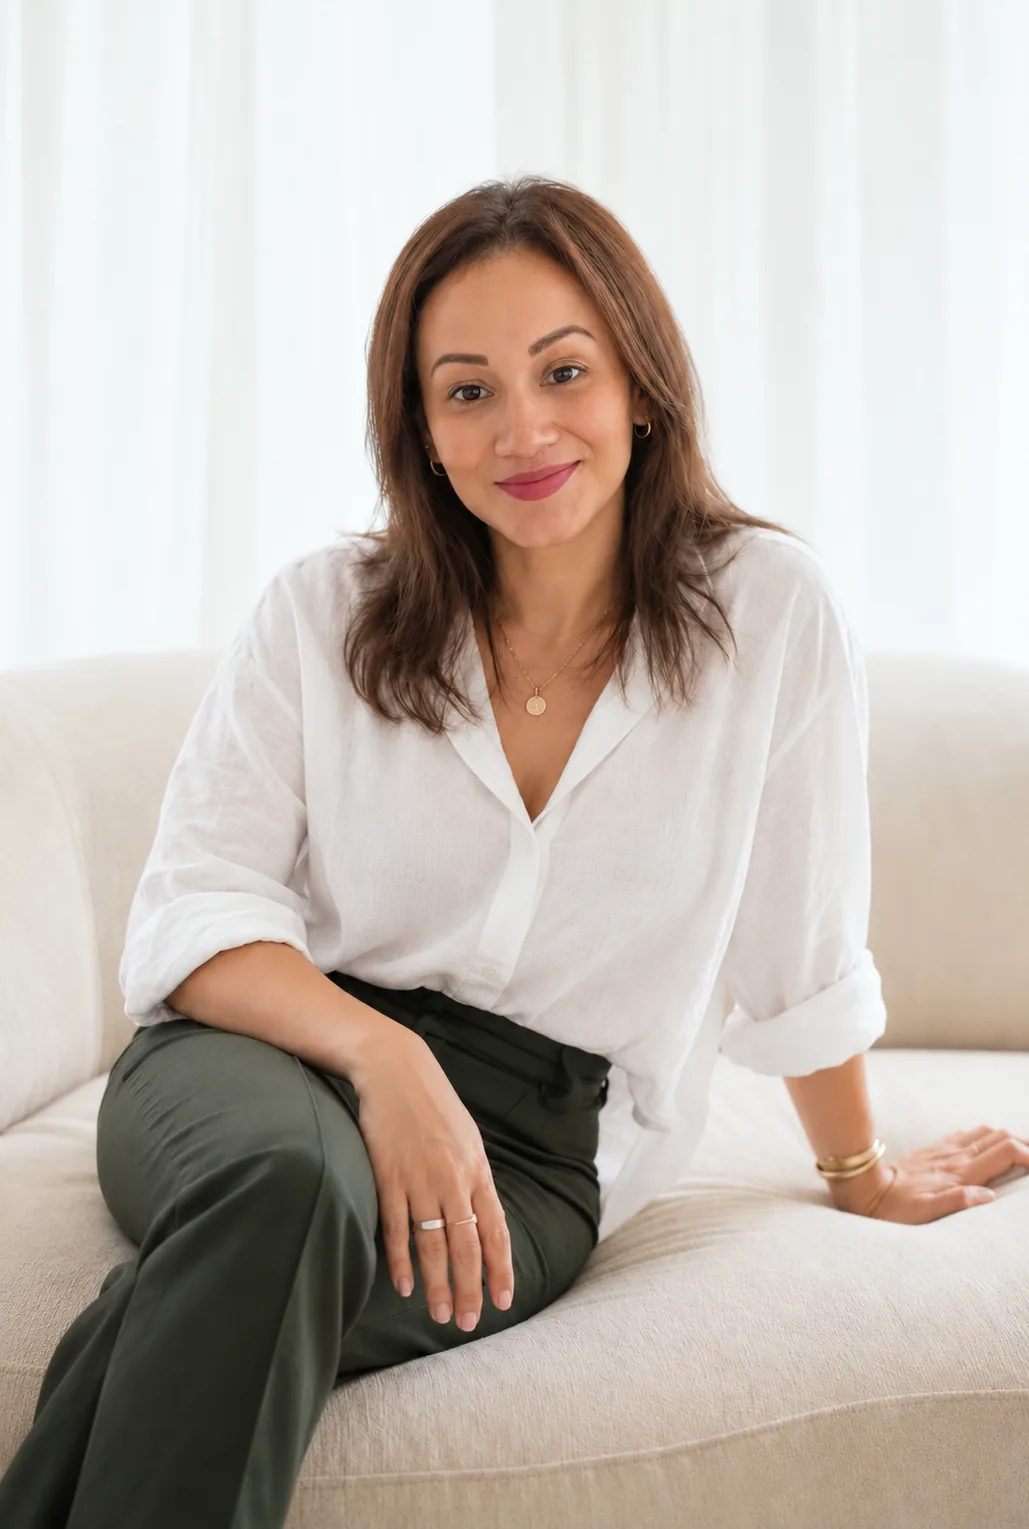
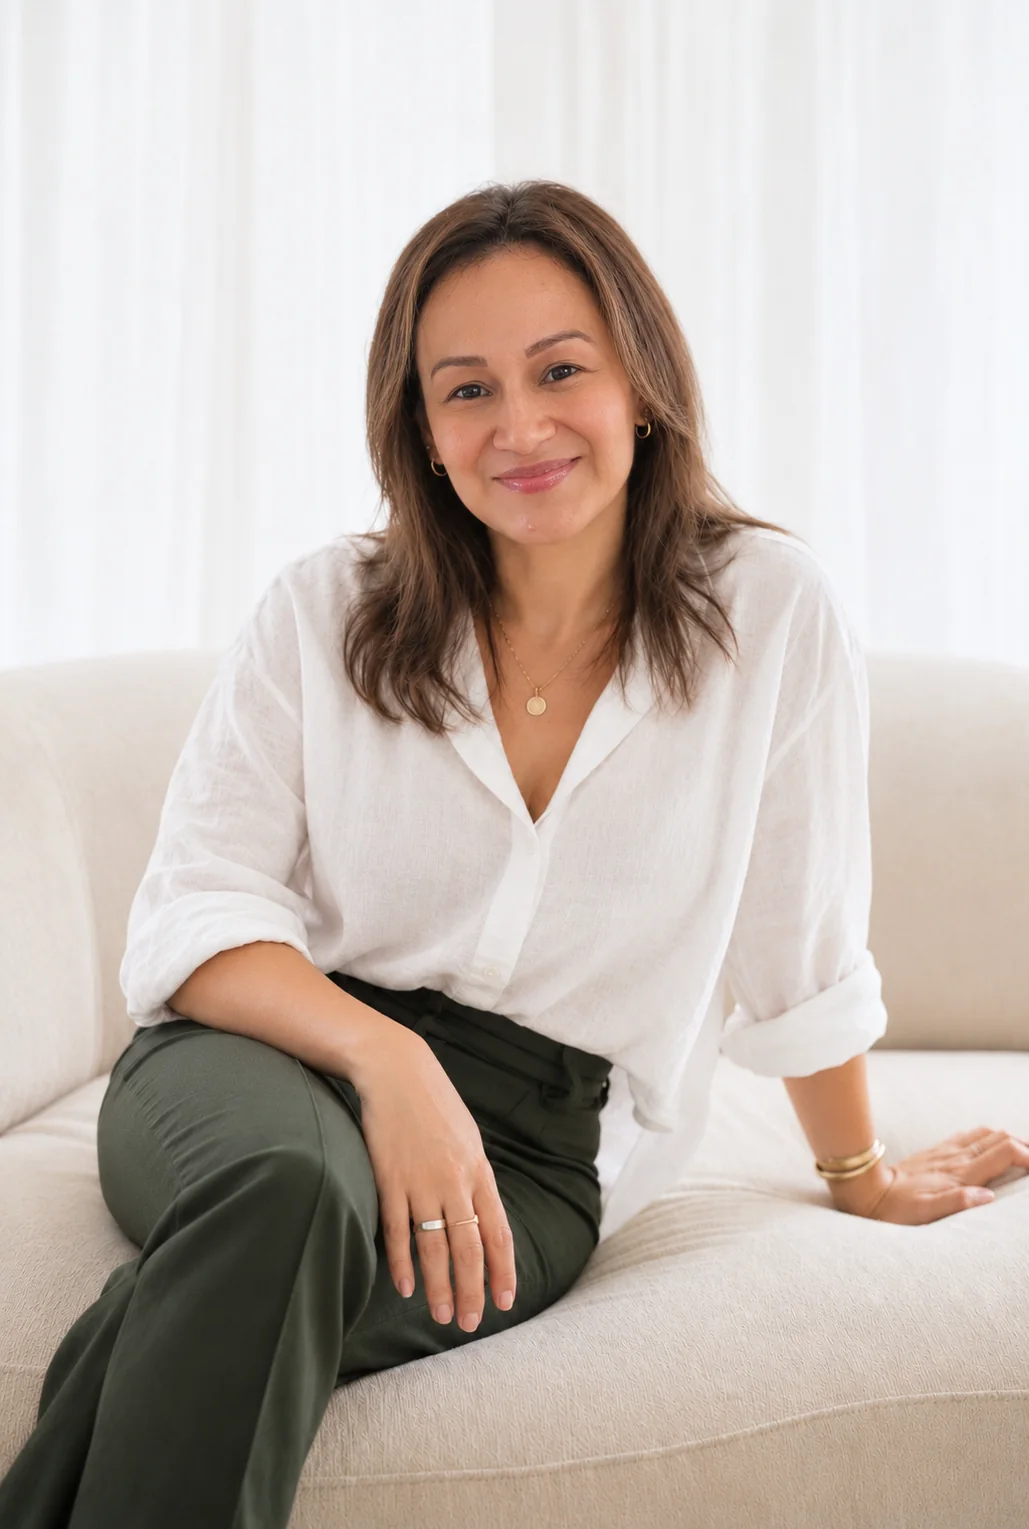
Nueva foto de Fransury en Quién te acompaña (portada y /quien-soy)

diff --git a/src/pages/PortalHome.tsx b/src/pages/PortalHome.tsx
@@ -188,9 +188,9 @@ const Companion = () => {
   return (
     <section ref={ref} aria-labelledby="acompana-titulo" className="grid md:grid-cols-2 bg-background">
       <div className="relative h-[110vw] max-h-[640px] md:h-auto md:max-h-none md:min-h-[100svh] overflow-hidden">
-        <motion.img src={fransuryAcompana} alt="Fransury González, psicóloga y maestra de Kundalini Yoga, sonriendo sentada en un sofá claro" loading="lazy"
+        <motion.img src={fransuryAcompana} alt="Fransury González, psicóloga y maestra de Kundalini Yoga, sentada en un sofá" loading="lazy"
           style={reduce ? { scale: 1.08 } : { y: photoY, scale: 1.08 }}
-          className="absolute inset-0 w-full h-full object-cover object-[50%_12%] [filter:grayscale(1)_contrast(0.96)_brightness(1.04)]" />
+          className="absolute inset-0 w-full h-full object-cover object-[50%_20%] [filter:grayscale(1)_contrast(0.96)_brightness(1.04)]" />
       </div>
       <motion.div {...inView} variants={{ show: { transition: { staggerChildren: 0.15 } } }}
         className="flex items-center px-6 py-24 md:px-16 lg:px-24 md:py-32">

diff --git a/src/pages/QuienSoy.tsx b/src/pages/QuienSoy.tsx
@@ -89,7 +89,7 @@ const QuienSoy = () => {
         <section className="md:px-6 md:pt-12 pb-14">
           <div className="max-w-6xl mx-auto grid md:grid-cols-[0.85fr_1.15fr] gap-8 md:gap-14 items-start">
             <div className="md:sticky md:top-28">
-              <RevealImage src={HERO_IMAGE} alt="Fransury González, psicóloga y maestra de Kundalini Yoga, sonriendo sentada en un sofá claro" eager colorize imgClassName="object-cover object-[50%_12%]"
+              <RevealImage src={HERO_IMAGE} alt="Fransury González, psicóloga y maestra de Kundalini Yoga, sentada en un sofá" eager colorize imgClassName="object-cover object-[50%_12%]"
                 className="w-full aspect-[4/5] md:aspect-[3/4] md:rounded-[2rem] shadow-lg" />
             </div>
             <motion.div initial="hidden" animate="show" variants={{ show: { transition: { staggerChildren: 0.1 } } }} className="px-6 md:px-0 space-y-6 md:pt-6">
